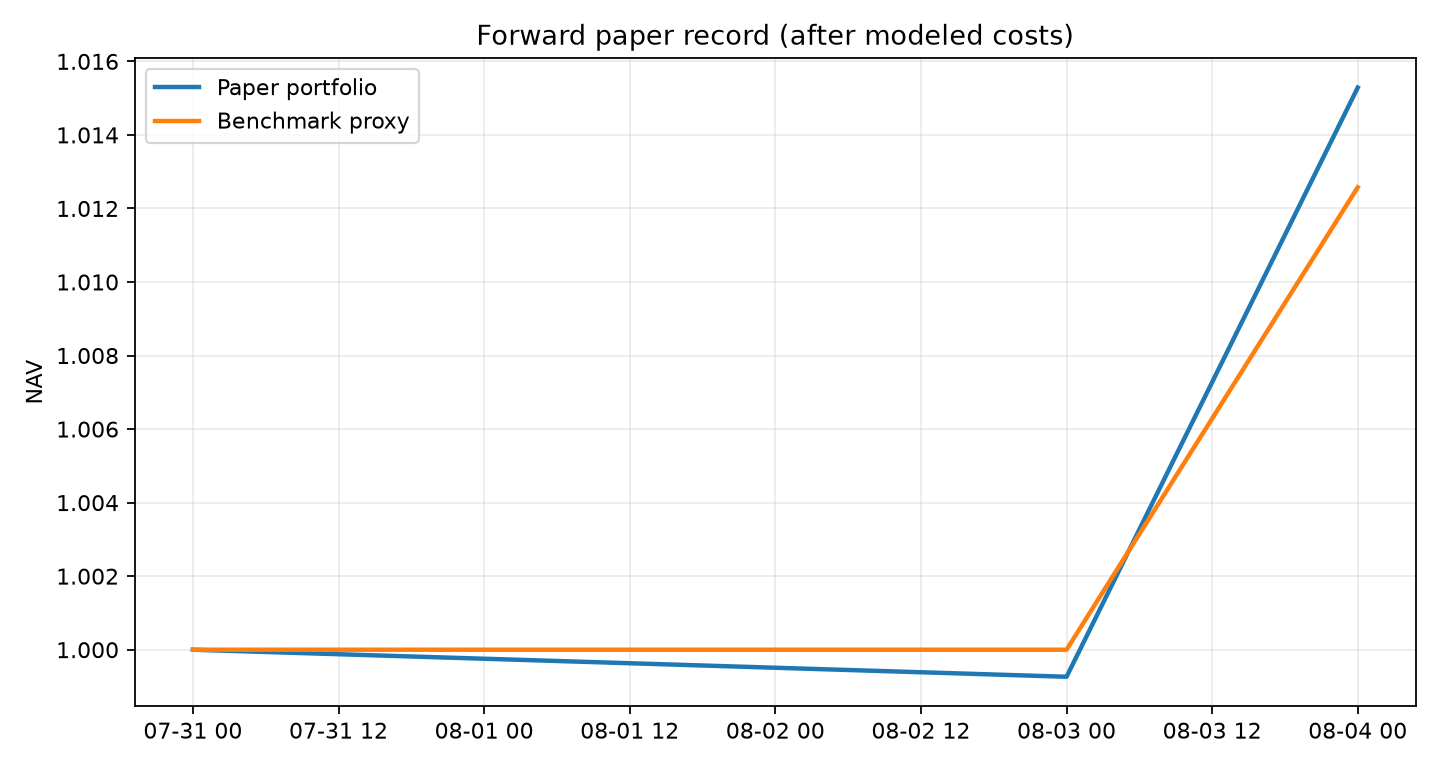
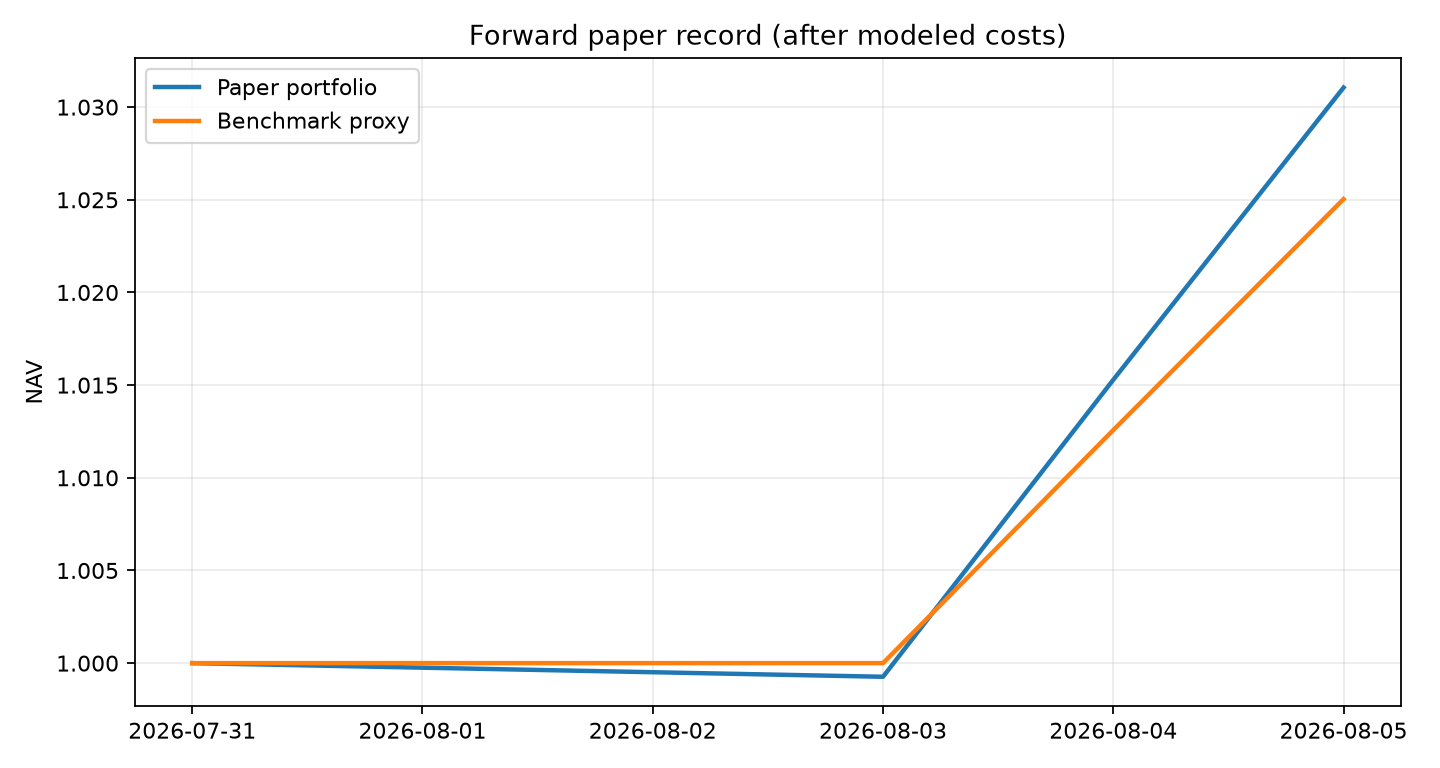
chore: update forward monitor 2026-08-05

diff --git a/docs/forward-monitoring.md b/docs/forward-monitoring.md
@@ -1,6 +1,6 @@
 # Forward paper-monitoring record
 
-Last updated: **2026-08-04** (Asia/Shanghai)
+Last updated: **2026-08-05** (Asia/Shanghai)
 
 This is an unaudited paper-trading research record. It is not a live fund,
 broker statement or investment advice. The empirical universe remains subject
@@ -10,16 +10,16 @@ to the fixed-current-constituent limitation described in `DATA_NOTICE.md`.
 
 | Metric | Value |
 |---|---:|
-| Market date | 2026-08-04 |
+| Market date | 2026-08-05 |
 | Health | GREEN_WARMUP |
-| Model version | cb4510dc1590 |
-| Model train end | 2026-08-03 |
+| Model version | 620946e8f715 |
+| Model train end | 2026-07-31 |
 | Data coverage | 100.0% |
 | Matured 5D Rank IC | N/A |
 | Top-minus-bottom | N/A |
-| Paper active return | 0.35% |
-| 20D tracking error | 3.56% |
-| 20D information ratio | 6.43 |
+| Paper active return | 0.32% |
+| 20D tracking error | 3.44% |
+| 20D information ratio | 10.90 |
 | Active drawdown | 0.00% |
 
 ## Recent observations
@@ -29,6 +29,7 @@ to the fixed-current-constituent limitation described in `DATA_NOTICE.md`.
 | 2026-07-31 | GREEN_WARMUP | -0.1939 | 0.00% | 0.00% |
 | 2026-08-03 | GREEN_WARMUP | N/A | -0.07% | 45.97% |
 | 2026-08-04 | GREEN_WARMUP | N/A | 0.35% | 0.00% |
+| 2026-08-05 | GREEN_WARMUP | N/A | 0.32% | 0.00% |
 
 Ticker-level predictions, holdings and proposed orders are intentionally kept
 outside this public repository.
